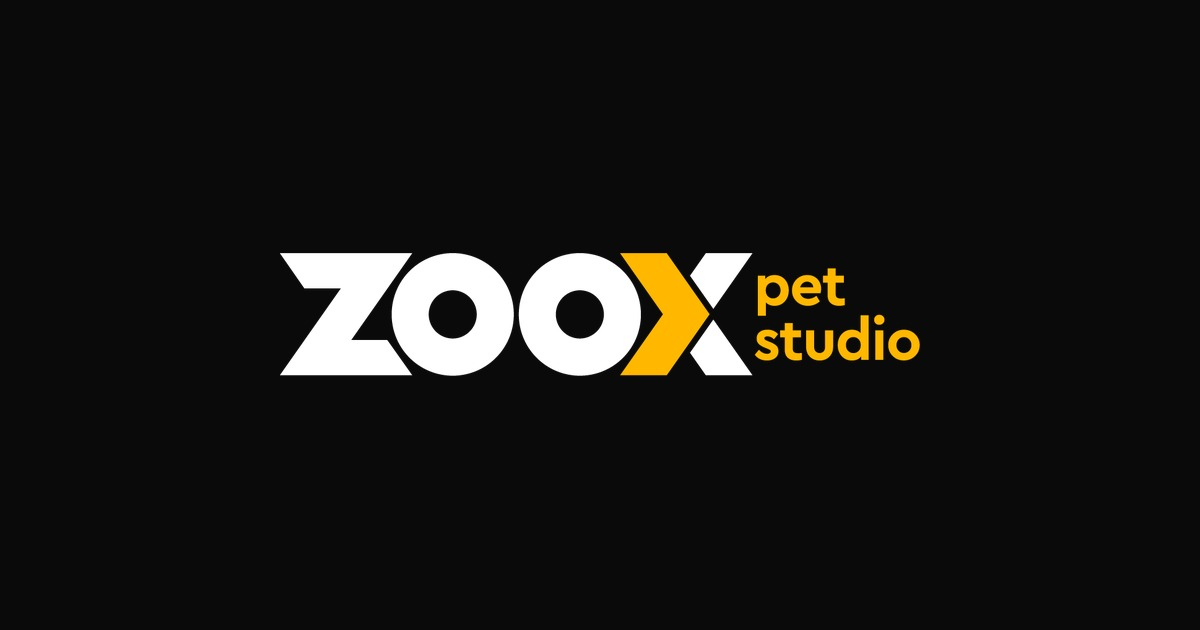
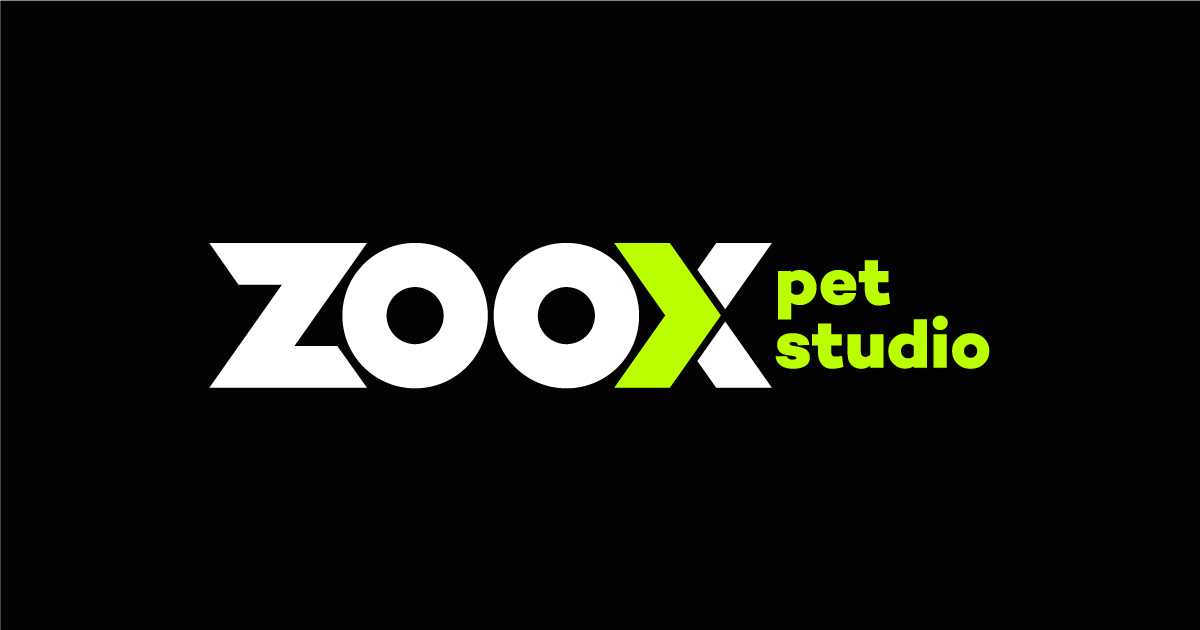
avance zoox brands 4

Changed region(s): [[0.1542, 0.3619, 0.8325, 0.6333]]

diff --git a/zooxbrands/index.html b/zooxbrands/index.html
@@ -586,9 +586,9 @@ font-weight: 700;
   line-height:1.65;
   margin:0;
 }
-#por-que-zoox .zbp-label { color: var(--zoox-naranja); }
-#por-que-zoox .zbp-title { color: var(--zoox-morado); }
-#por-que-zoox .zbp-title em { color: var(--zoox-naranja); }
+#por-que-zoox .zbp-label { color: var(--zoox-lima); }
+#por-que-zoox .zbp-title { color: var(--zoox-blanco); }
+#por-que-zoox .zbp-title em { color: var(--zoox-lima); }
 
     .logos-b2b-wrapper { text-align:center; margin-top:20px; border-top: 1px solid rgba(0,0,0,0.08); padding-top:40px; }
     .logos-label {
@@ -728,8 +728,8 @@ font-weight: 700;
     .zbp-title {
       font-family: 'Cera GR', sans-serif;
       font-size: clamp(2rem, 5vw, 3.4rem);
-      font-weight: 600;
-      line-height: 1.05;
+      font-weight: 700;
+      line-height: 1.15;
       color: var(--zoox-texto);
       margin-bottom: 20px;
       text-align: center;
@@ -829,7 +829,7 @@ justify-content: center; !important;
     }
 
     /* ── POR QUÉ ZOOX ── (temporalmente oculto) */
-    #por-que-zoox { display: block !important; background: var(--zoox-gris); padding: 60px 0 80px; overflow:hidden; }
+    #por-que-zoox { display: block !important; background: var(--zoox-negro); padding: 60px 0 80px; overflow:hidden; }
     .razones-grid {
       display: grid;
       grid-template-columns: repeat(2, 1fr);
@@ -1259,13 +1259,13 @@ h2.is-visible em,h2.is-visible span{background-size:100% 3px!important}
 }
 /* Por qué ZOOX: tarjetas */
 .razones-grid-b2b{display:flex;flex-wrap:wrap;justify-content:center;gap:24px;max-width:1000px}
-.razon-b2b{flex:0 1 calc(33.333% - 16px);flex-direction:column;align-items:center;text-align:center;gap:18px;background:var(--zoox-morado);border:1.5px solid var(--zoox-naranja);padding:34px 24px;transition:opacity .7s ease,filter .7s ease,transform .35s ease,background-color .35s ease,box-shadow .35s ease}
-.razon-b2b:hover{background:#181434;transform:translateY(-6px);box-shadow:0 14px 28px rgba(0,0,0,.25)}
-.razon-icon{width:64px;height:64px;border:0;border-radius:50%;background:var(--zoox-naranja);transition:background-color .3s ease}
-.razon-icon i{font-size:1.6rem;color:var(--zoox-gris);transition:color .3s ease}
-.razon-b2b:hover .razon-icon{background:var(--zoox-gris)}
-.razon-b2b:hover .razon-icon i{color:var(--zoox-naranja)}
-.razon-b2b h5{color:var(--zoox-gris);margin:0 0 10px;min-height:0}
+.razon-b2b{flex:0 1 calc(33.333% - 16px);flex-direction:column;align-items:center;text-align:center;gap:18px;background:var(--zoox-card);border:1px solid var(--zoox-borde);border-radius:20px;padding:34px 24px;transition:opacity .7s ease,filter .7s ease,transform .35s ease,background-color .35s ease,box-shadow .35s ease,border-color .35s ease;}
+.razon-b2b:hover{background:#1A1E11;border-color:var(--zoox-lima-suave);transform:translateY(-6px);box-shadow:0 14px 28px rgba(0,0,0,.25)}
+.razon-icon{width:64px;height:64px;border:0;border-radius:50%;background:#3E4720;transition:background-color .3s ease}
+.razon-icon i{font-size:1.6rem;color:var(--zoox-lima);transition:color .3s ease}
+.razon-b2b:hover .razon-icon{background:var(--zoox-lima)}
+.razon-b2b:hover .razon-icon i{color:var(--zoox-negro)}
+.razon-b2b h5{color:var(--zoox-blanco);margin:0 0 10px;min-height:0}
 .razon-b2b p{color:var(--zoox-gris);opacity:.85}
 @media(max-width:900px){.razon-b2b{flex-basis:calc(50% - 12px)}}
 @media(max-width:600px){.razon-b2b{flex-basis:100%}}
